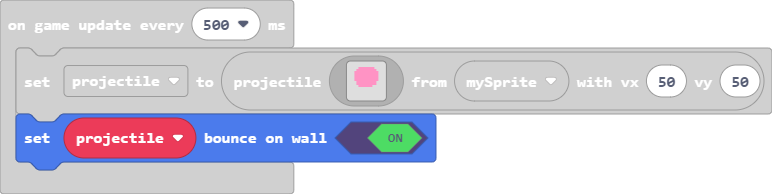
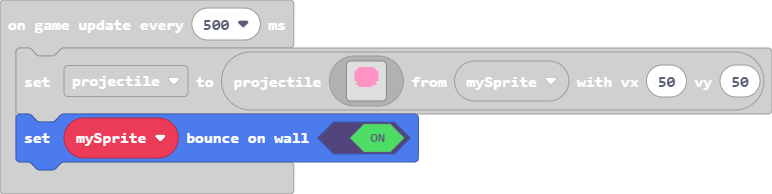
Update main.blocks, main.ts

Changed region(s): [[0.0933, 0.5567, 0.5907, 0.866]]

diff --git a/main.ts b/main.ts
@@ -38,5 +38,5 @@ game.onUpdateInterval(500, function () {
         . . . . . . . . . . . . . . . . 
         . . . . . . . . . . . . . . . . 
         `, mySprite, 50, 50)
-    projectile.setBounceOnWall(true)
+    mySprite.setBounceOnWall(true)
 })
